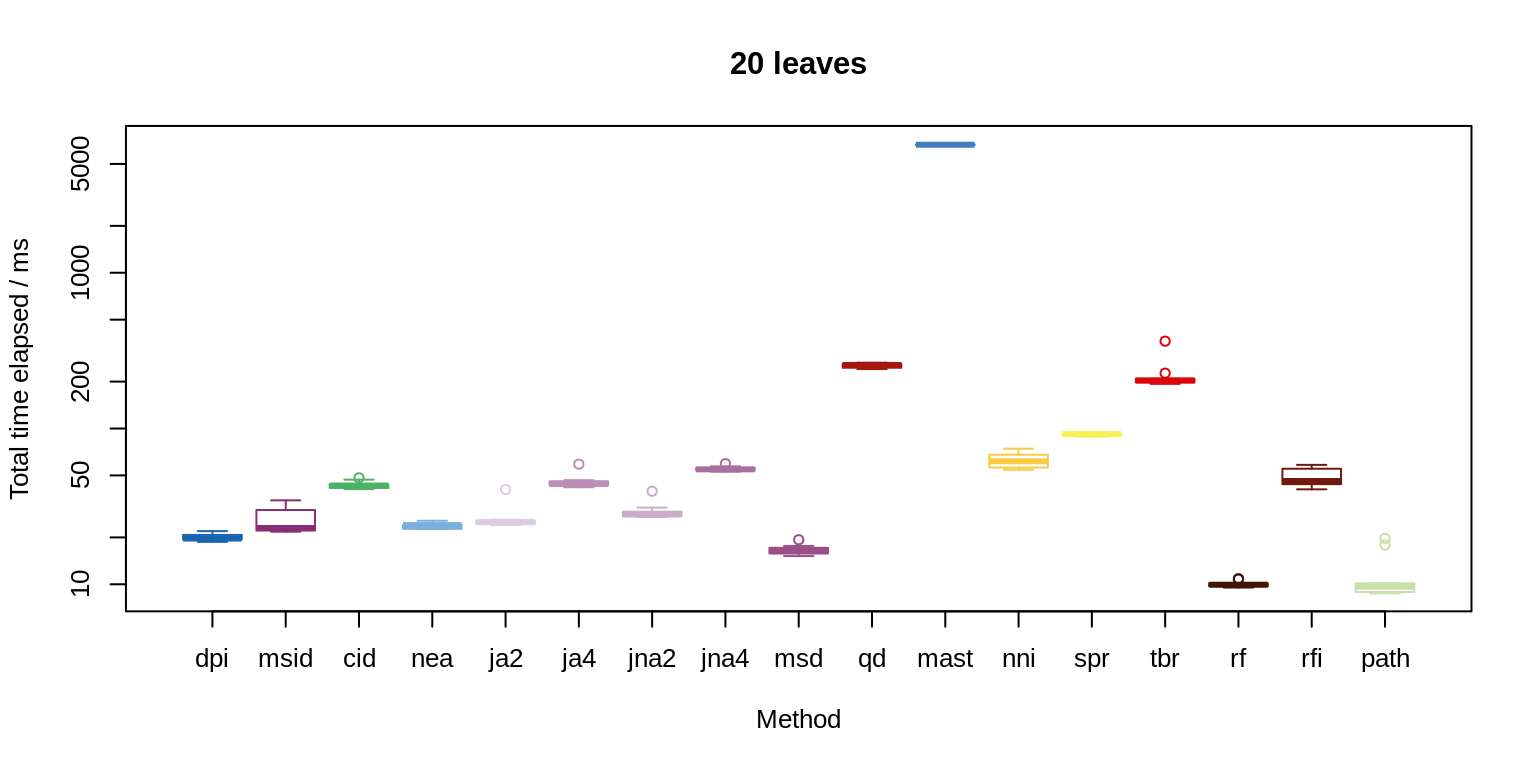
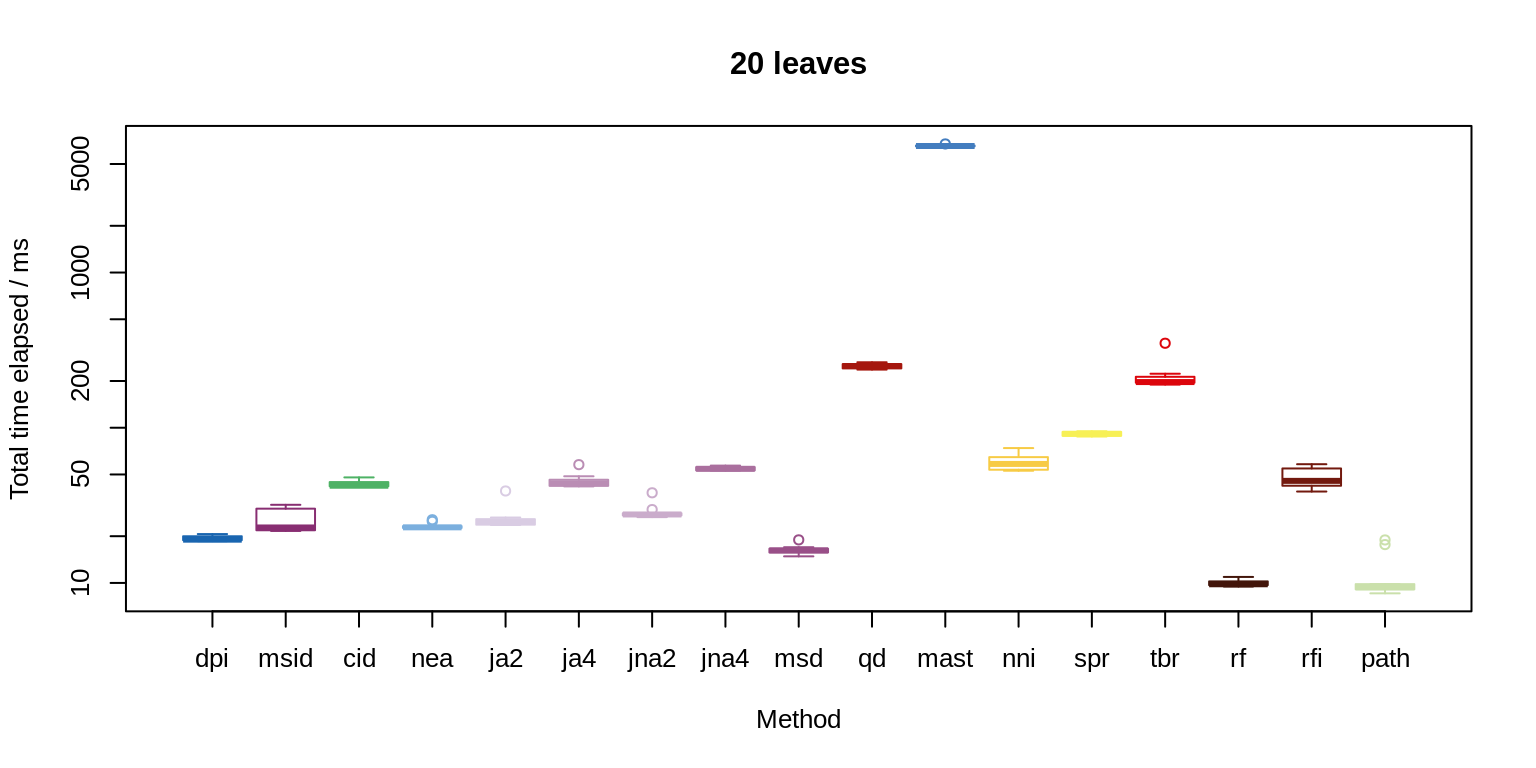
Built site for TreeDistData: 0.1.0@3a53dc6

diff --git a/articles/10-timing.html b/articles/10-timing.html
@@ -156,7 +156,7 @@ The values reported in Smith <span class="citation">(2020)</span> were calculate
 <tr class="even">
 <td>Path</td>
 <td align="right">11</td>
-<td align="right">18</td>
+<td align="right">17</td>
 </tr>
 <tr class="odd">
 <td>Match. Split Dist.</td>
@@ -166,26 +166,26 @@ The values reported in Smith <span class="citation">(2020)</span> were calculate
 <tr class="even">
 <td>Phylog. Info. Dist</td>
 <td align="right">20</td>
-<td align="right">81</td>
+<td align="right">79</td>
 </tr>
 <tr class="odd">
 <td>Nye et al.</td>
-<td align="right">24</td>
+<td align="right">23</td>
 <td align="right">130</td>
 </tr>
 <tr class="even">
 <td>Match. Split Info Dist</td>
-<td align="right">26</td>
+<td align="right">25</td>
 <td align="right">140</td>
 </tr>
 <tr class="odd">
 <td>JRF (k=2, arboreal)</td>
-<td align="right">27</td>
+<td align="right">26</td>
 <td align="right">120</td>
 </tr>
 <tr class="even">
 <td>JRF (k=2, non-arb.)</td>
-<td align="right">30</td>
+<td align="right">29</td>
 <td align="right">170</td>
 </tr>
 <tr class="odd">
@@ -196,27 +196,27 @@ The values reported in Smith <span class="citation">(2020)</span> were calculate
 <tr class="even">
 <td>JRF (k=4, arboreal)</td>
 <td align="right">46</td>
-<td align="right">530</td>
+<td align="right">520</td>
 </tr>
 <tr class="odd">
 <td>Info. Corr. RF</td>
-<td align="right">49</td>
-<td align="right">140</td>
+<td align="right">48</td>
+<td align="right">130</td>
 </tr>
 <tr class="even">
 <td>JRF (k=4, non-arb.)</td>
-<td align="right">56</td>
+<td align="right">55</td>
 <td align="right">820</td>
 </tr>
 <tr class="odd">
 <td>NNI (approx.)</td>
-<td align="right">63</td>
-<td align="right">82</td>
+<td align="right">61</td>
+<td align="right">81</td>
 </tr>
 <tr class="even">
 <td>SPR (approx.)</td>
-<td align="right">93</td>
-<td align="right">780</td>
+<td align="right">92</td>
+<td align="right">770</td>
 </tr>
 <tr class="odd">
 <td>TBR (approx.)</td>
@@ -225,12 +225,12 @@ The values reported in Smith <span class="citation">(2020)</span> were calculate
 </tr>
 <tr class="even">
 <td>Quartet</td>
-<td align="right">260</td>
-<td align="right">460</td>
+<td align="right">250</td>
+<td align="right">450</td>
 </tr>
 <tr class="odd">
 <td>MAST size</td>
-<td align="right">6700</td>
+<td align="right">6600</td>
 <td align="right">27000</td>
 </tr>
 </tbody>
